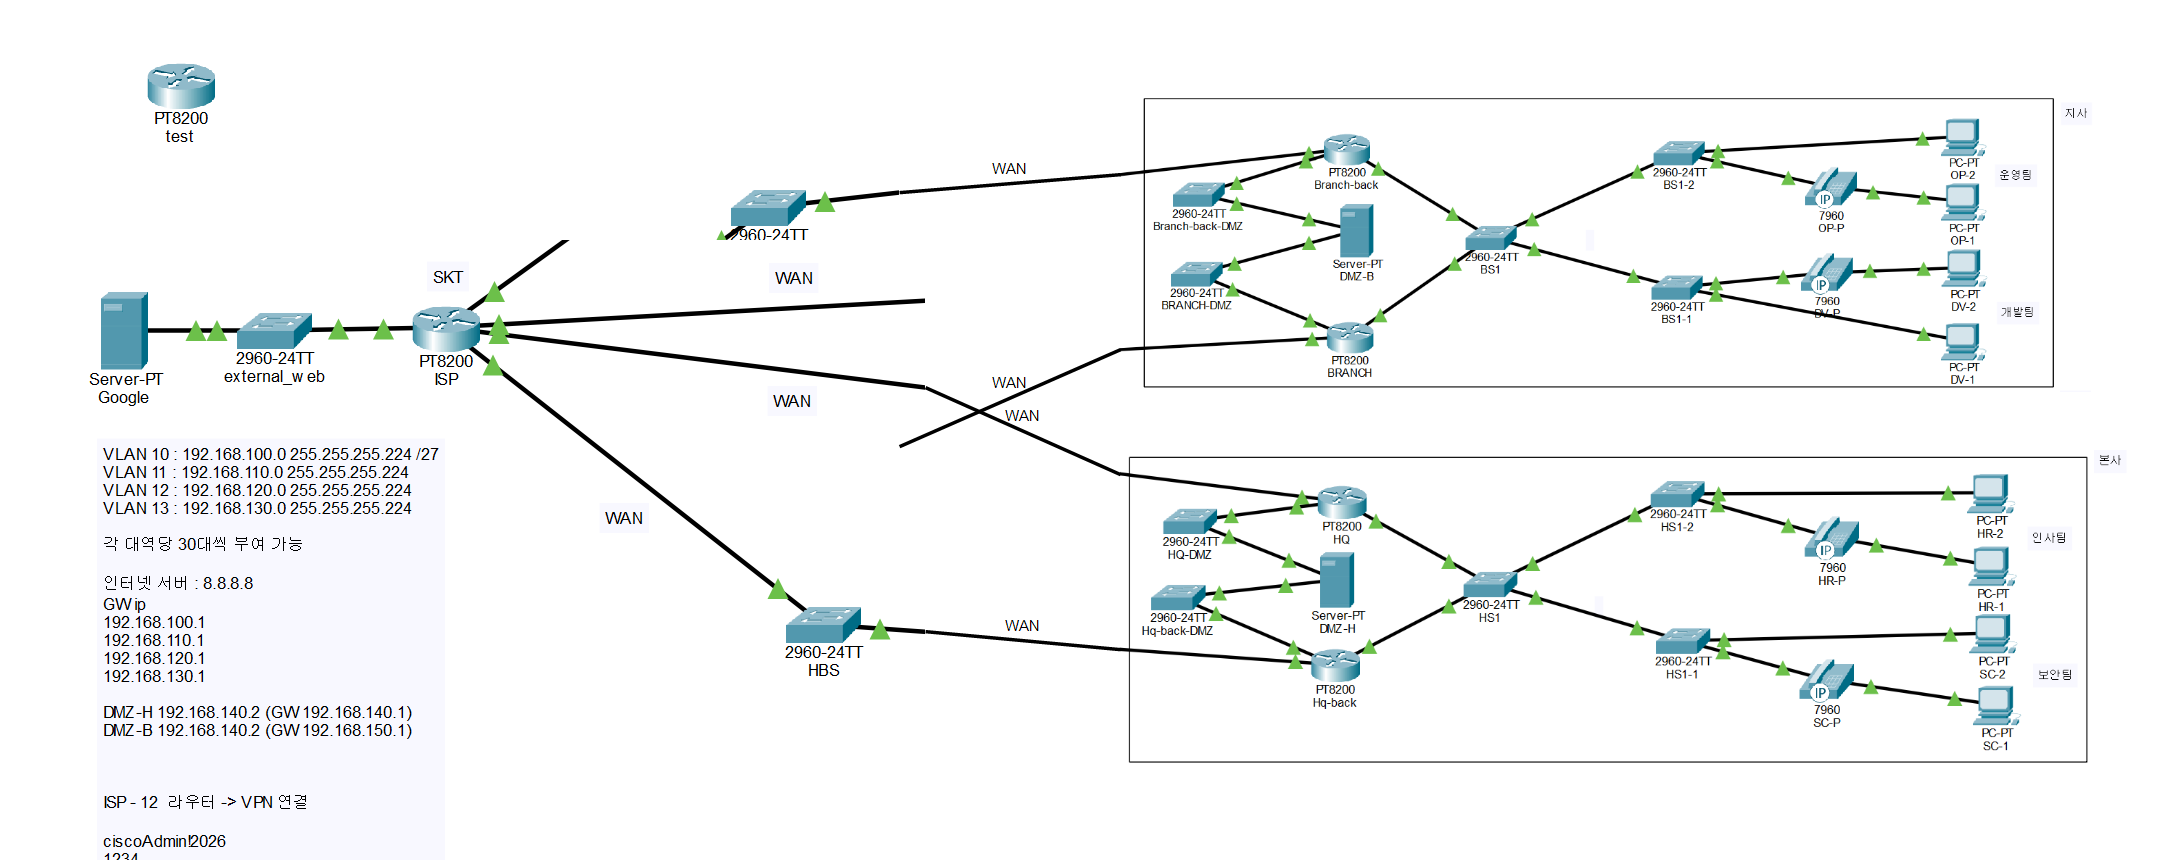
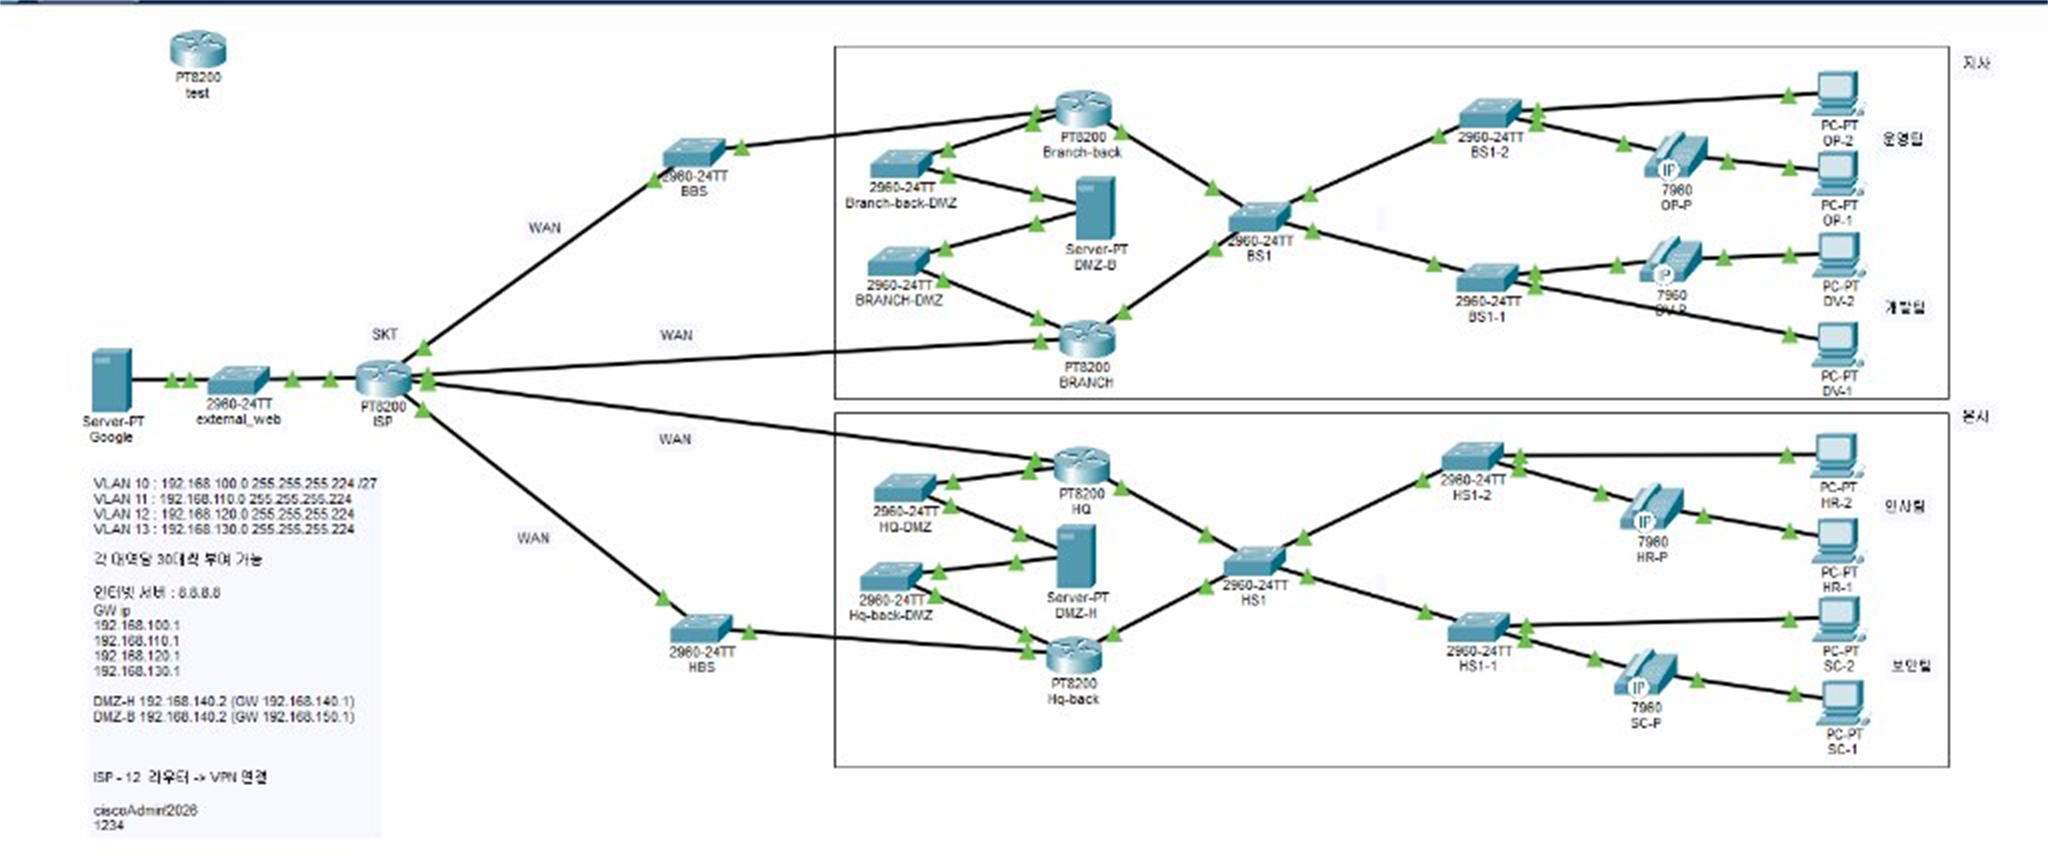
사진 보정2

diff --git a/index.html b/index.html
@@ -389,8 +389,8 @@
 
     .pt-canvas img {
       display: block;
-      width: 2160px;
-      height: 860px;
+      width: 2048px;
+      height: 856px;
       max-width: none;
       pointer-events: none;
       box-shadow: 0 10px 30px rgba(0, 0, 0, 0.12);
@@ -627,8 +627,8 @@
 
       if (!trigger || !modal || !viewport || !canvas) return;
 
-      const imgWidth = 2160;
-      const imgHeight = 860;
+      const imgWidth = 2048;
+      const imgHeight = 856;
 
       let scale = 1;
       let translateX = 0;
@@ -778,19 +778,19 @@
           if (target === "all") {
             fitToScreen();
           } else if (target === "wan") {
-            scale = 1.35;
-            translateX = 50;
-            translateY = (vh - 860 * scale) / 2;
+            scale = 1.6;
+            translateX = 40;
+            translateY = (vh - 856 * scale) / 2;
             updateTransform(true);
           } else if (target === "branch") {
-            scale = 1.35;
-            translateX = vw - (2160 * scale) + 50;
-            translateY = 30;
+            scale = 1.6;
+            translateX = vw - (2048 * scale) + 50;
+            translateY = 40;
             updateTransform(true);
           } else if (target === "hq") {
-            scale = 1.35;
-            translateX = vw - (2160 * scale) + 50;
-            translateY = vh - (860 * scale) - 30;
+            scale = 1.6;
+            translateX = vw - (2048 * scale) + 50;
+            translateY = vh - (856 * scale) - 40;
             updateTransform(true);
           }
         });
